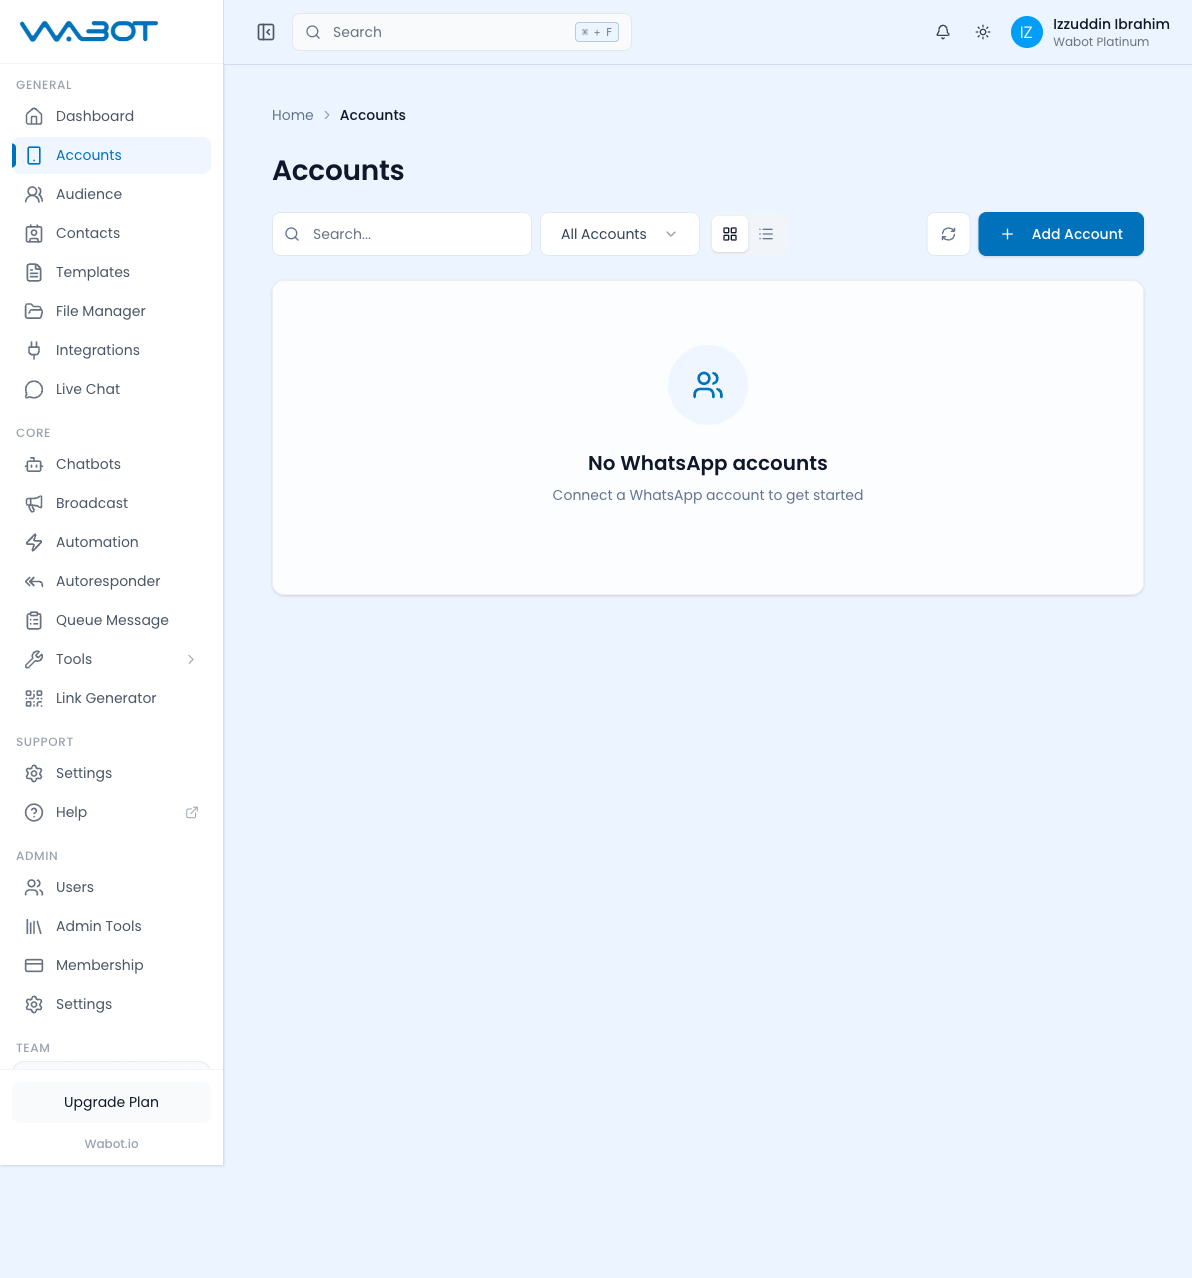
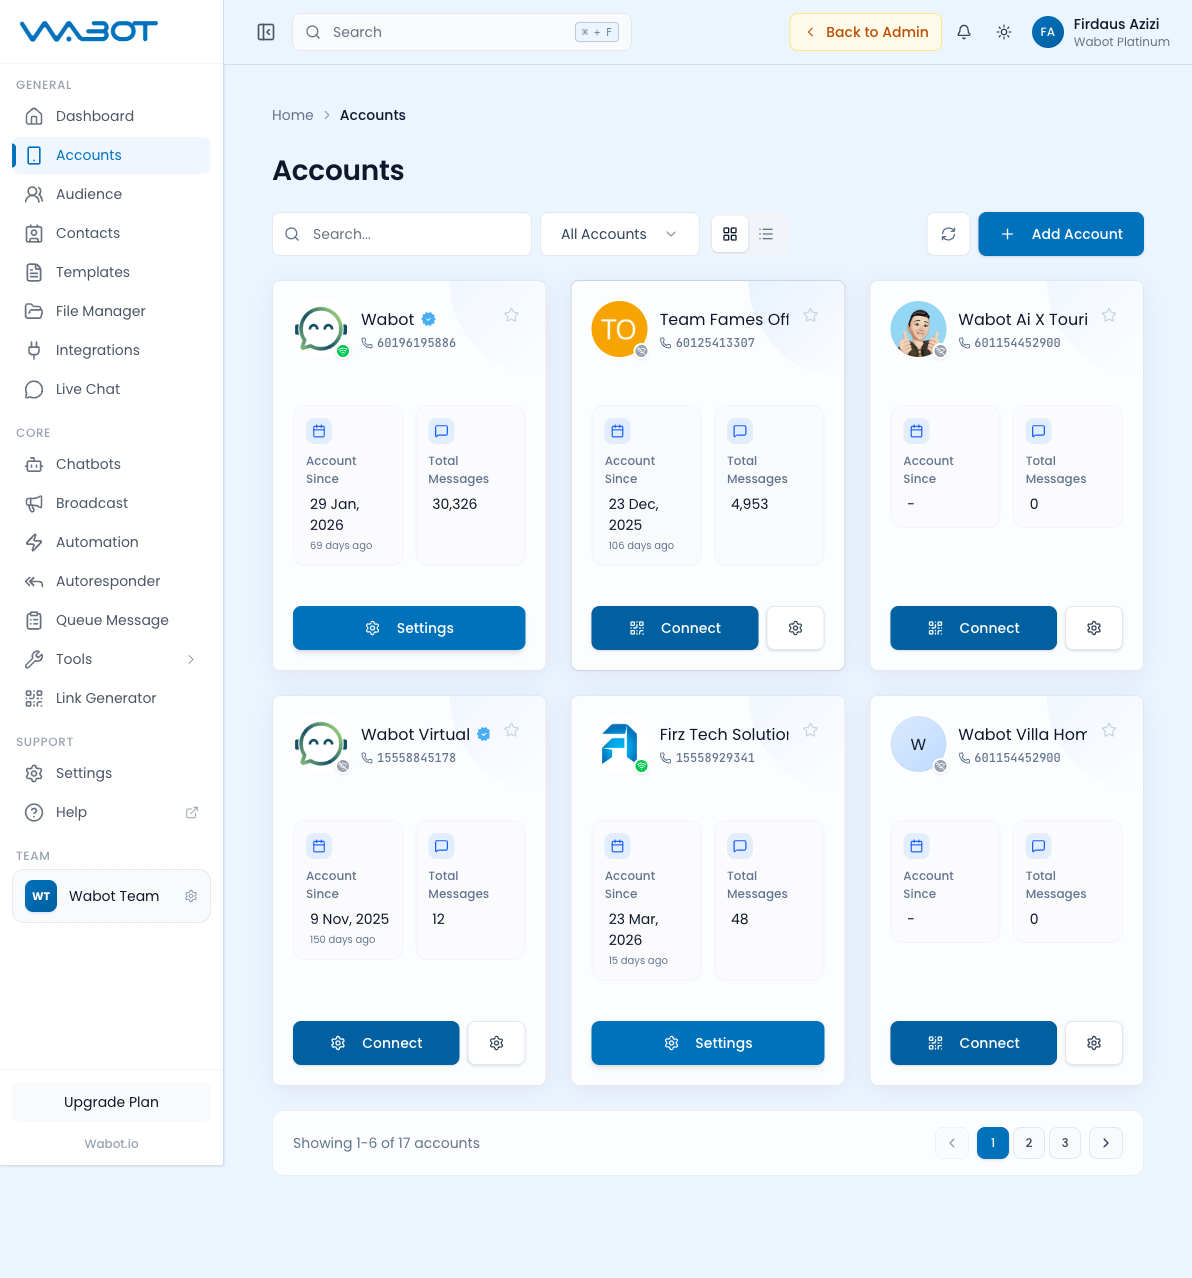
Update screenshots with real user data and add chatbot instance/configure pages

diff --git a/docs/features/chatbots.md b/docs/features/chatbots.md
@@ -13,6 +13,14 @@ Sidebar → **CORE → Chatbots** — `https://app.wabot.io/dashboard/chatbots`
 
 ![Chatbots Page](/img/screenshots/chatbots.png)
 
+When you click on a connected account, you land on the **Chatbot Instance** page. From here you manage AI settings, knowledge files, AI memory, chatbot rules, tools, and feedback gaps:
+
+![Chatbot Instance](/img/screenshots/chatbot-instance.png)
+
+The **Configure Setting** button opens the full chatbot configuration panel covering chatbot mode, AI behavior, AI knowledge, AI features, smart features, AI provider/model, and chatbot settings:
+
+![Chatbot Configure](/img/screenshots/chatbot-configure.png)
+
 ## Prerequisites
 
 - At least one **connected WhatsApp account** (see [Connect Account](/docs/getting-started/connect-account))
